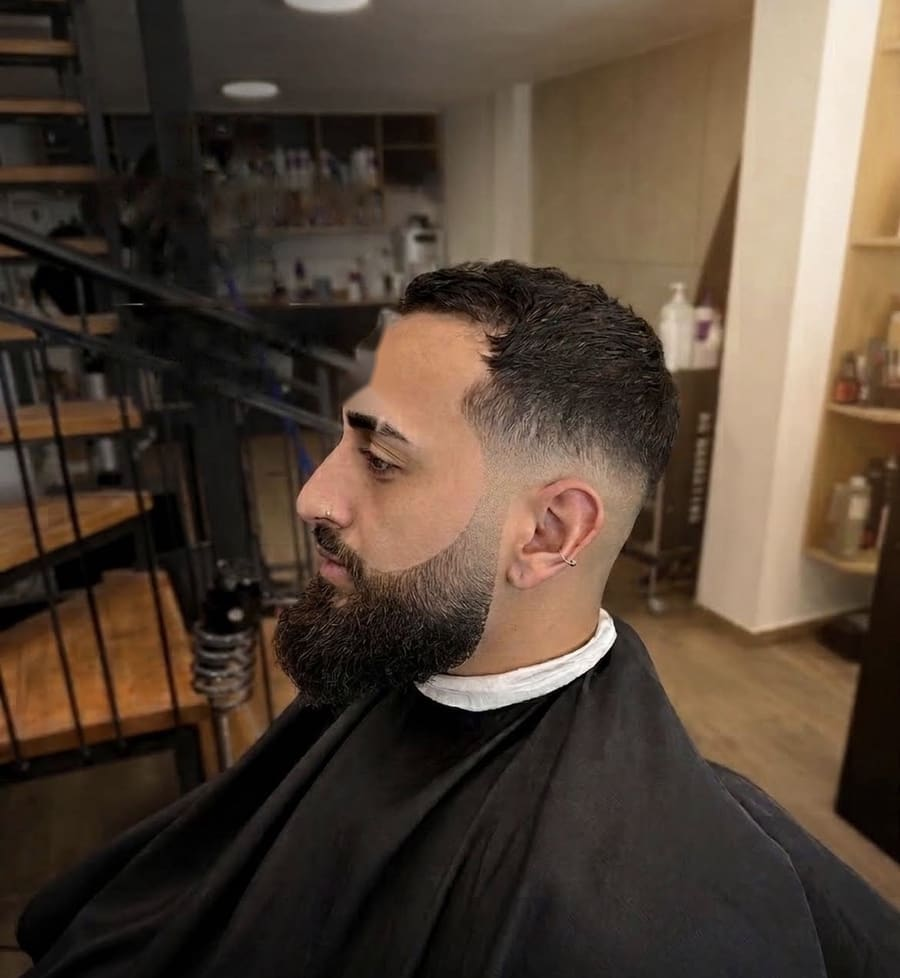
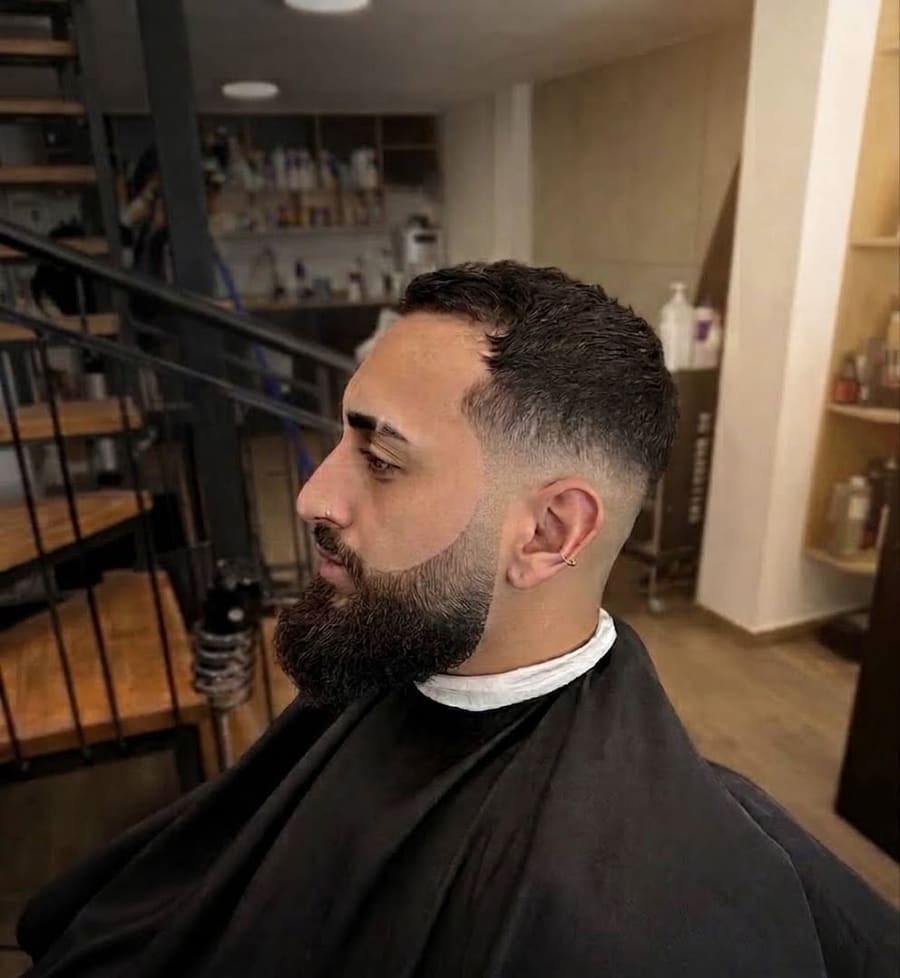
Replace two gallery photos with clean originals
Claude-Session: https://claude.ai/code/session_013PrRigdDUAYThKsPQbMB6r

diff --git a/src/content/images.ts b/src/content/images.ts
@@ -37,7 +37,7 @@ export const GALLERY: SiteImage[] = [
   img("taper-beard", 900, 1151, "טייפר נמוך עם זקן מסודר", "Low taper with a neat beard"),
   img("premium-fade-beard", 900, 978, "פייד קצר עם זקן מלא ומעוצב", "Short fade with a full, shaped beard"),
   img("fringe-high-fade", 900, 1159, "פוני ארוך עם פייד גבוה", "Long fringe with a high fade"),
-  img("curly-fade", 900, 1142, "שיער מתולתל למעלה עם פייד בצדדים", "Curly top with a fade on the sides"),
+  img("curly-fade", 816, 1291, "שיער מתולתל למעלה עם פייד בצדדים", "Curly top with a fade on the sides"),
   img("crop-high-fade", 900, 1166, "תספורת קצרה עם פייד גבוה וזקן קצר", "Short crop with a high fade and a short beard"),
   img("taper-beard-side", 900, 1188, "תספורת קצרה עם טייפר וזקן, מבט מהצד", "Short cut with a taper and beard, side view"),
   img("taper-back-mirror", 900, 1166, "טייפר מאחור, מול המראה במספרה", "Taper from the back, in front of the shop mirror"),
